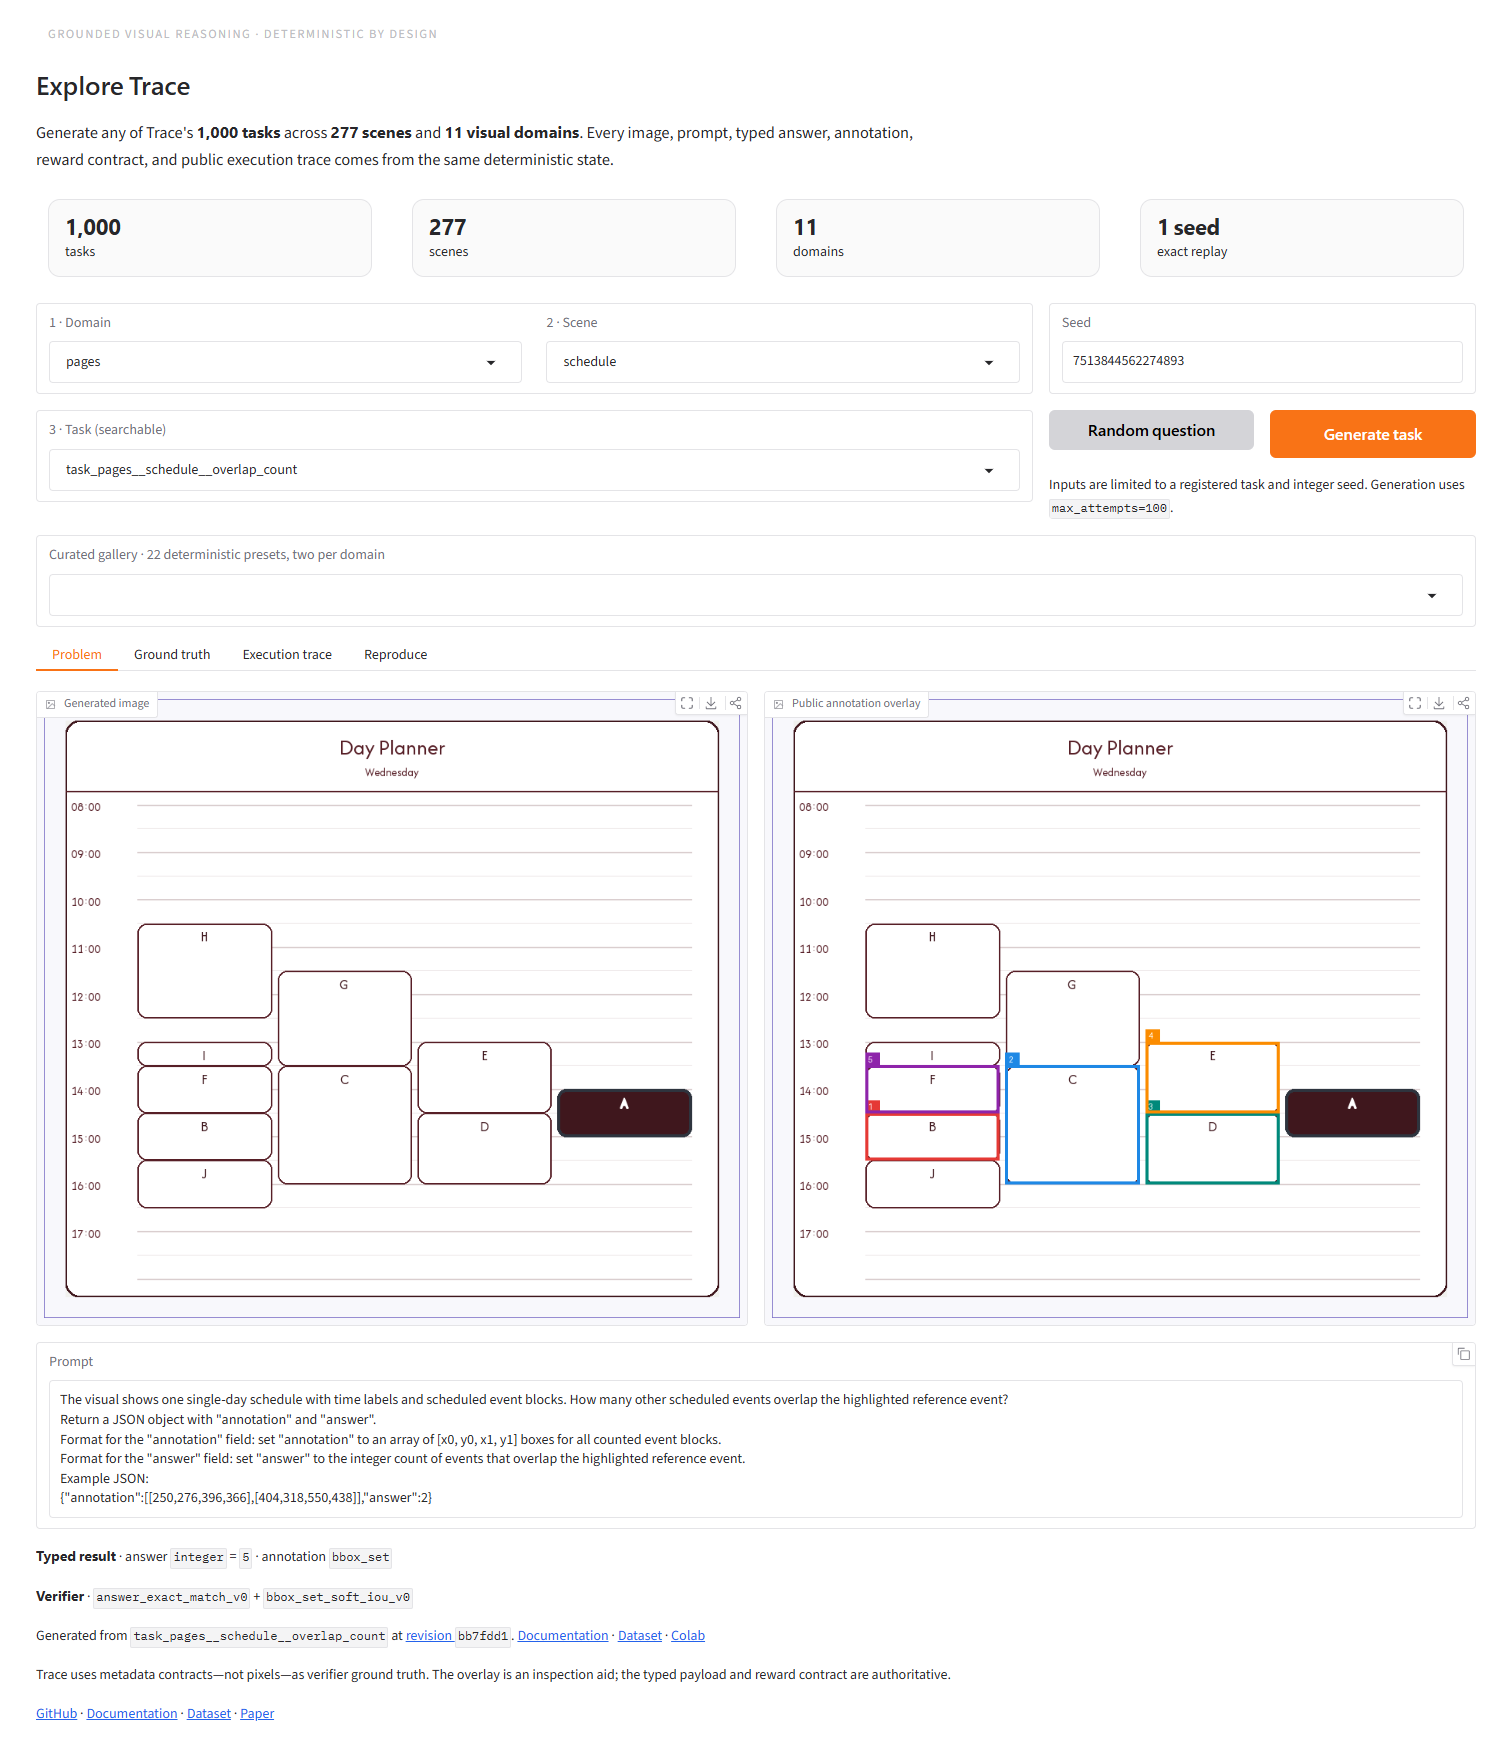
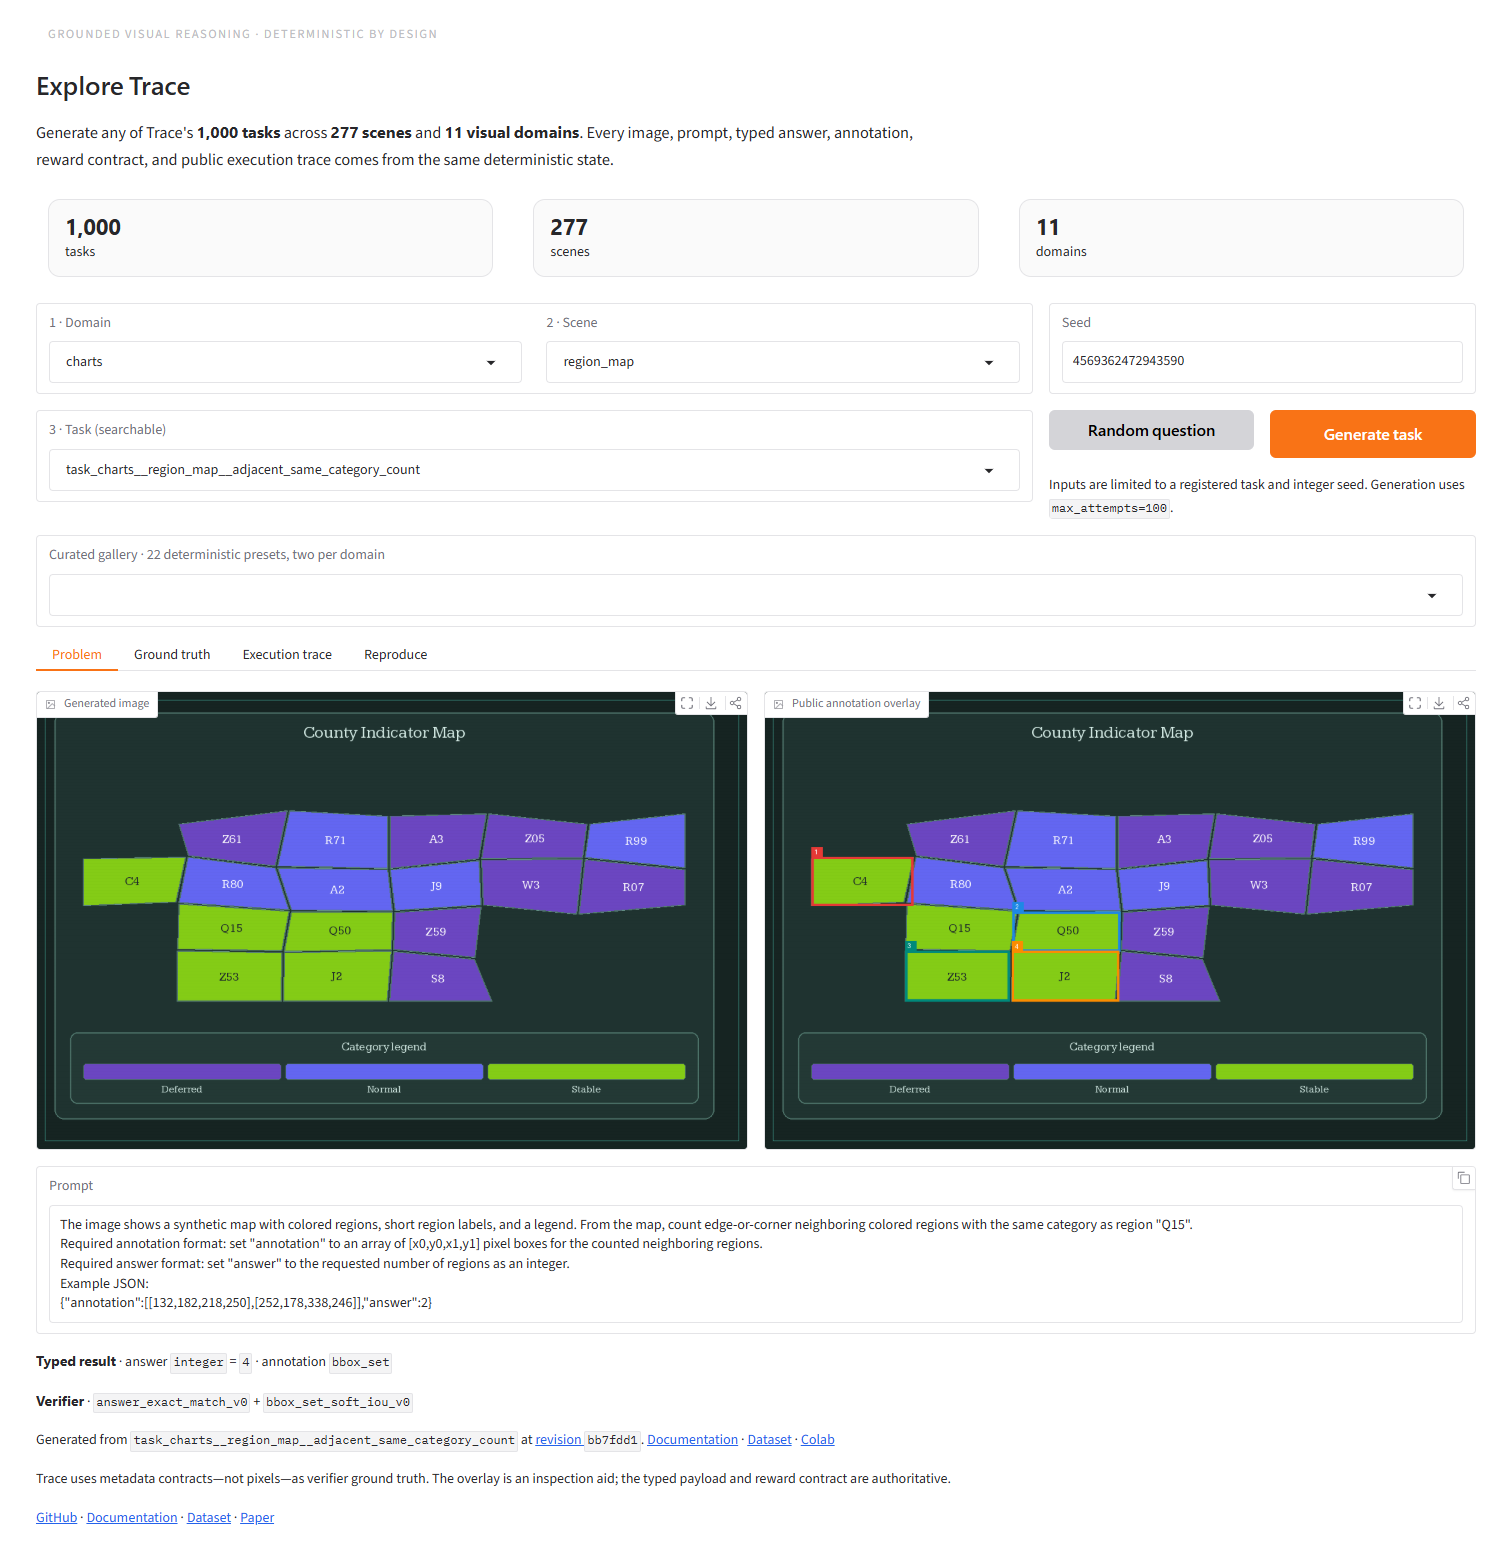
Remove redundant replay stat

diff --git a/tests/test_huggingface_space.py b/tests/test_huggingface_space.py
@@ -248,3 +248,13 @@ def test_space_has_no_public_prediction_api_or_upload_input() -> None:
     assert "Random seed" not in source
     assert "domain.input(" in source
     assert "scene_id.input(" in source
+
+
+def test_space_summary_only_shows_catalog_counts() -> None:
+    source = (SPACE_ROOT / "app.py").read_text(encoding="utf-8")
+
+    assert source.count("class='trace-stat'") == 3
+    assert "<strong>1,000</strong>tasks" in source
+    assert "<strong>277</strong>scenes" in source
+    assert "<strong>11</strong>domains" in source
+    assert "1 seed" not in source

diff --git a/examples/huggingface_space/app.py b/examples/huggingface_space/app.py
@@ -133,7 +133,6 @@ public execution trace comes from the same deterministic state.
             gr.HTML("<div class='trace-stat'><strong>1,000</strong>tasks</div>")
             gr.HTML("<div class='trace-stat'><strong>277</strong>scenes</div>")
             gr.HTML("<div class='trace-stat'><strong>11</strong>domains</div>")
-            gr.HTML("<div class='trace-stat'><strong>1 seed</strong>exact replay</div>")
 
         with gr.Row():
             with gr.Column(scale=7):
